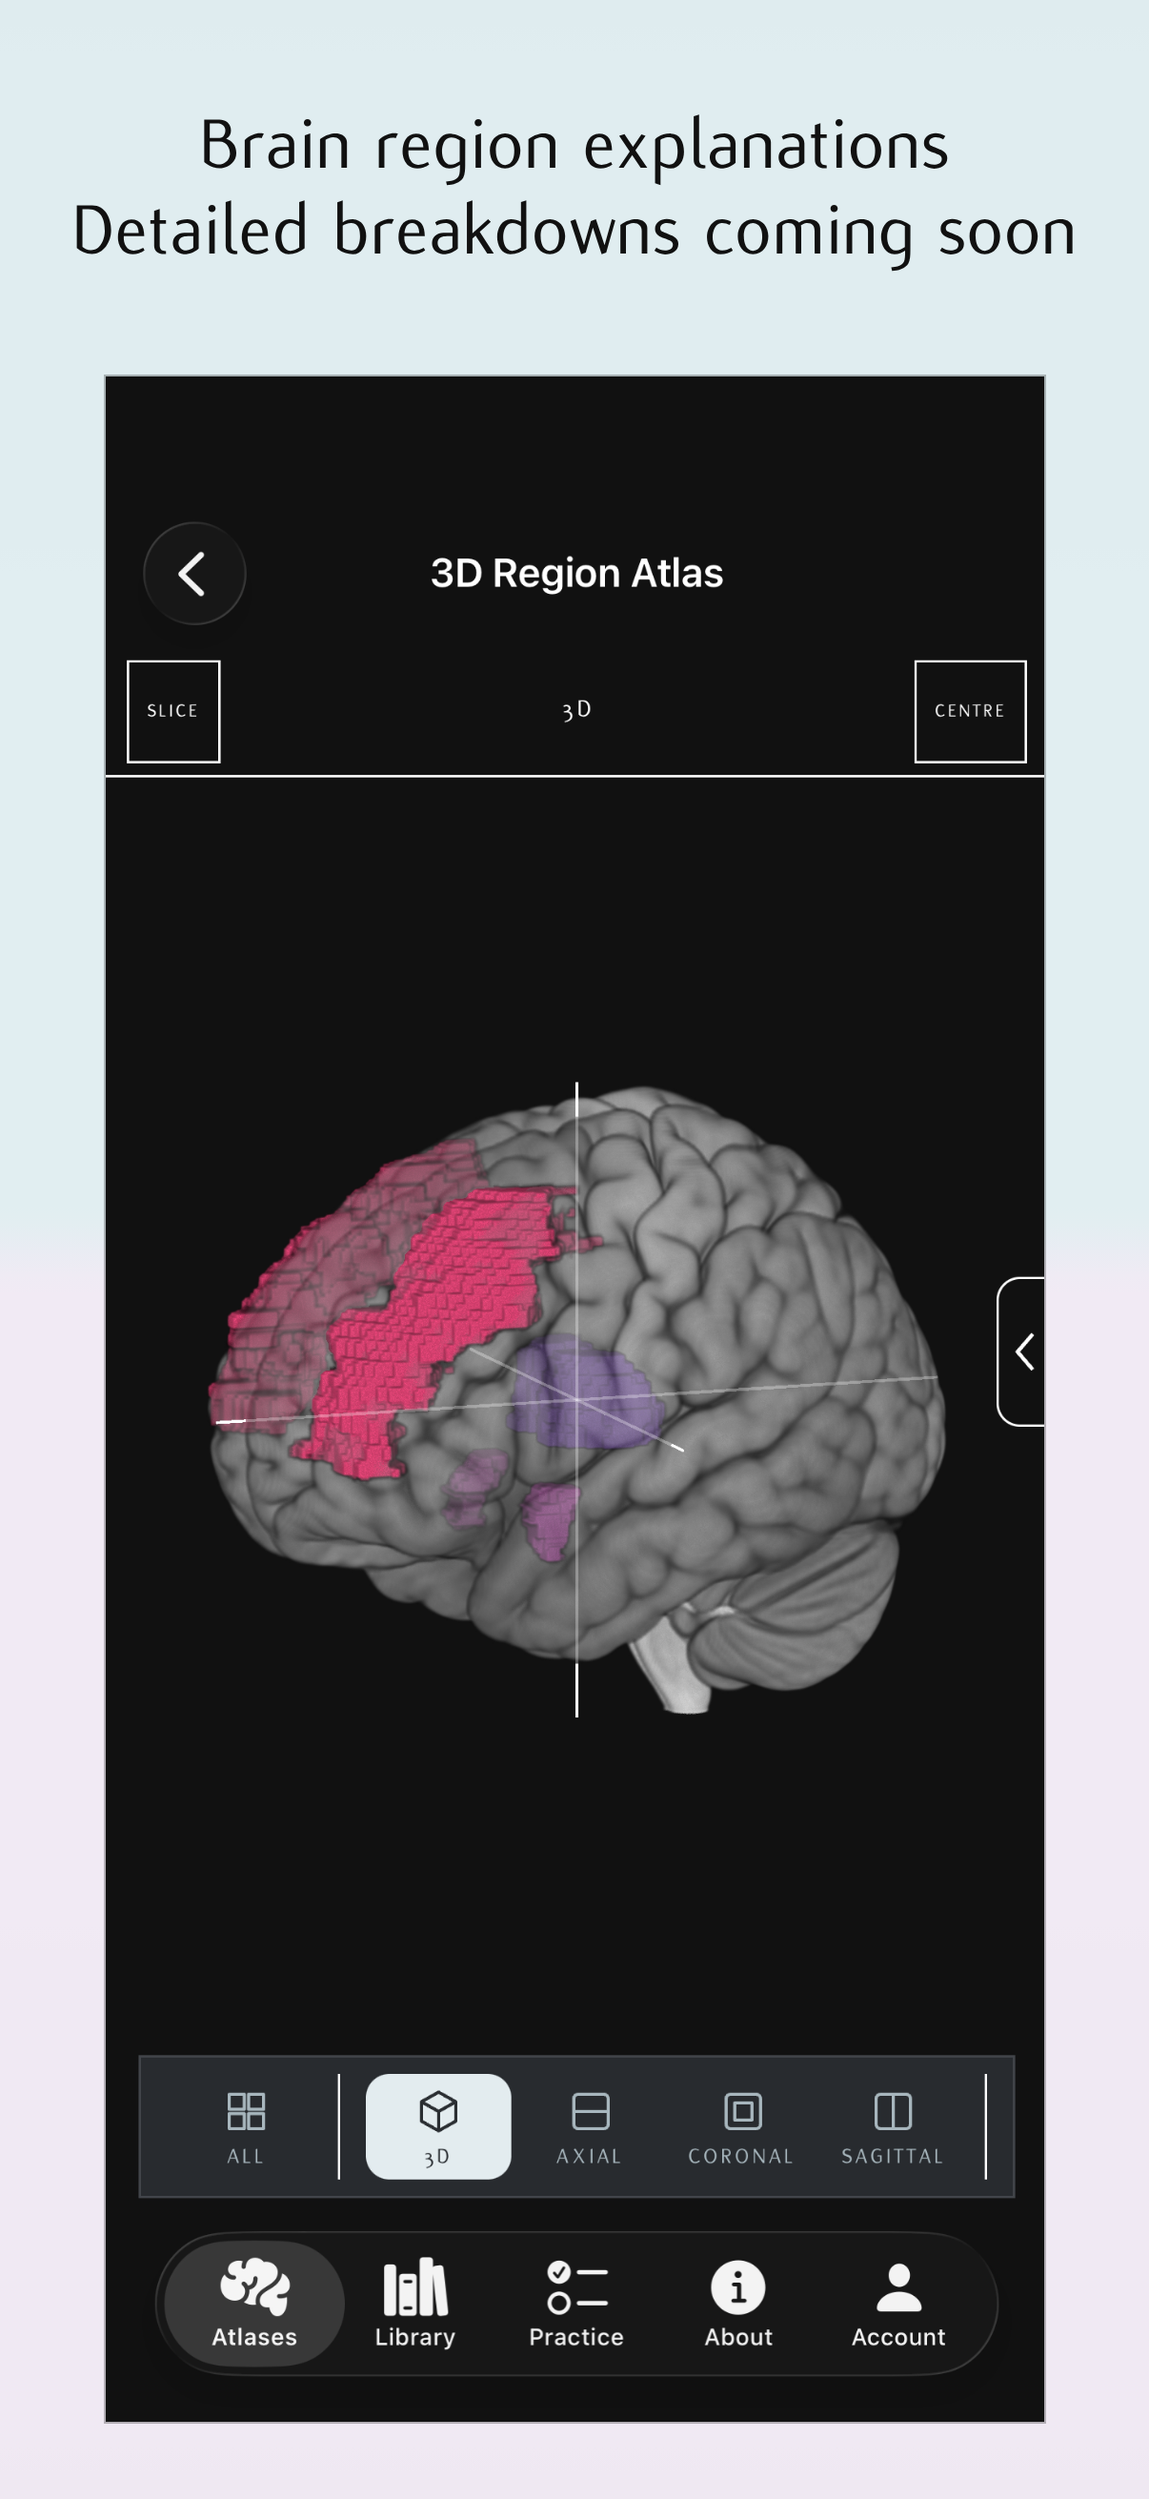
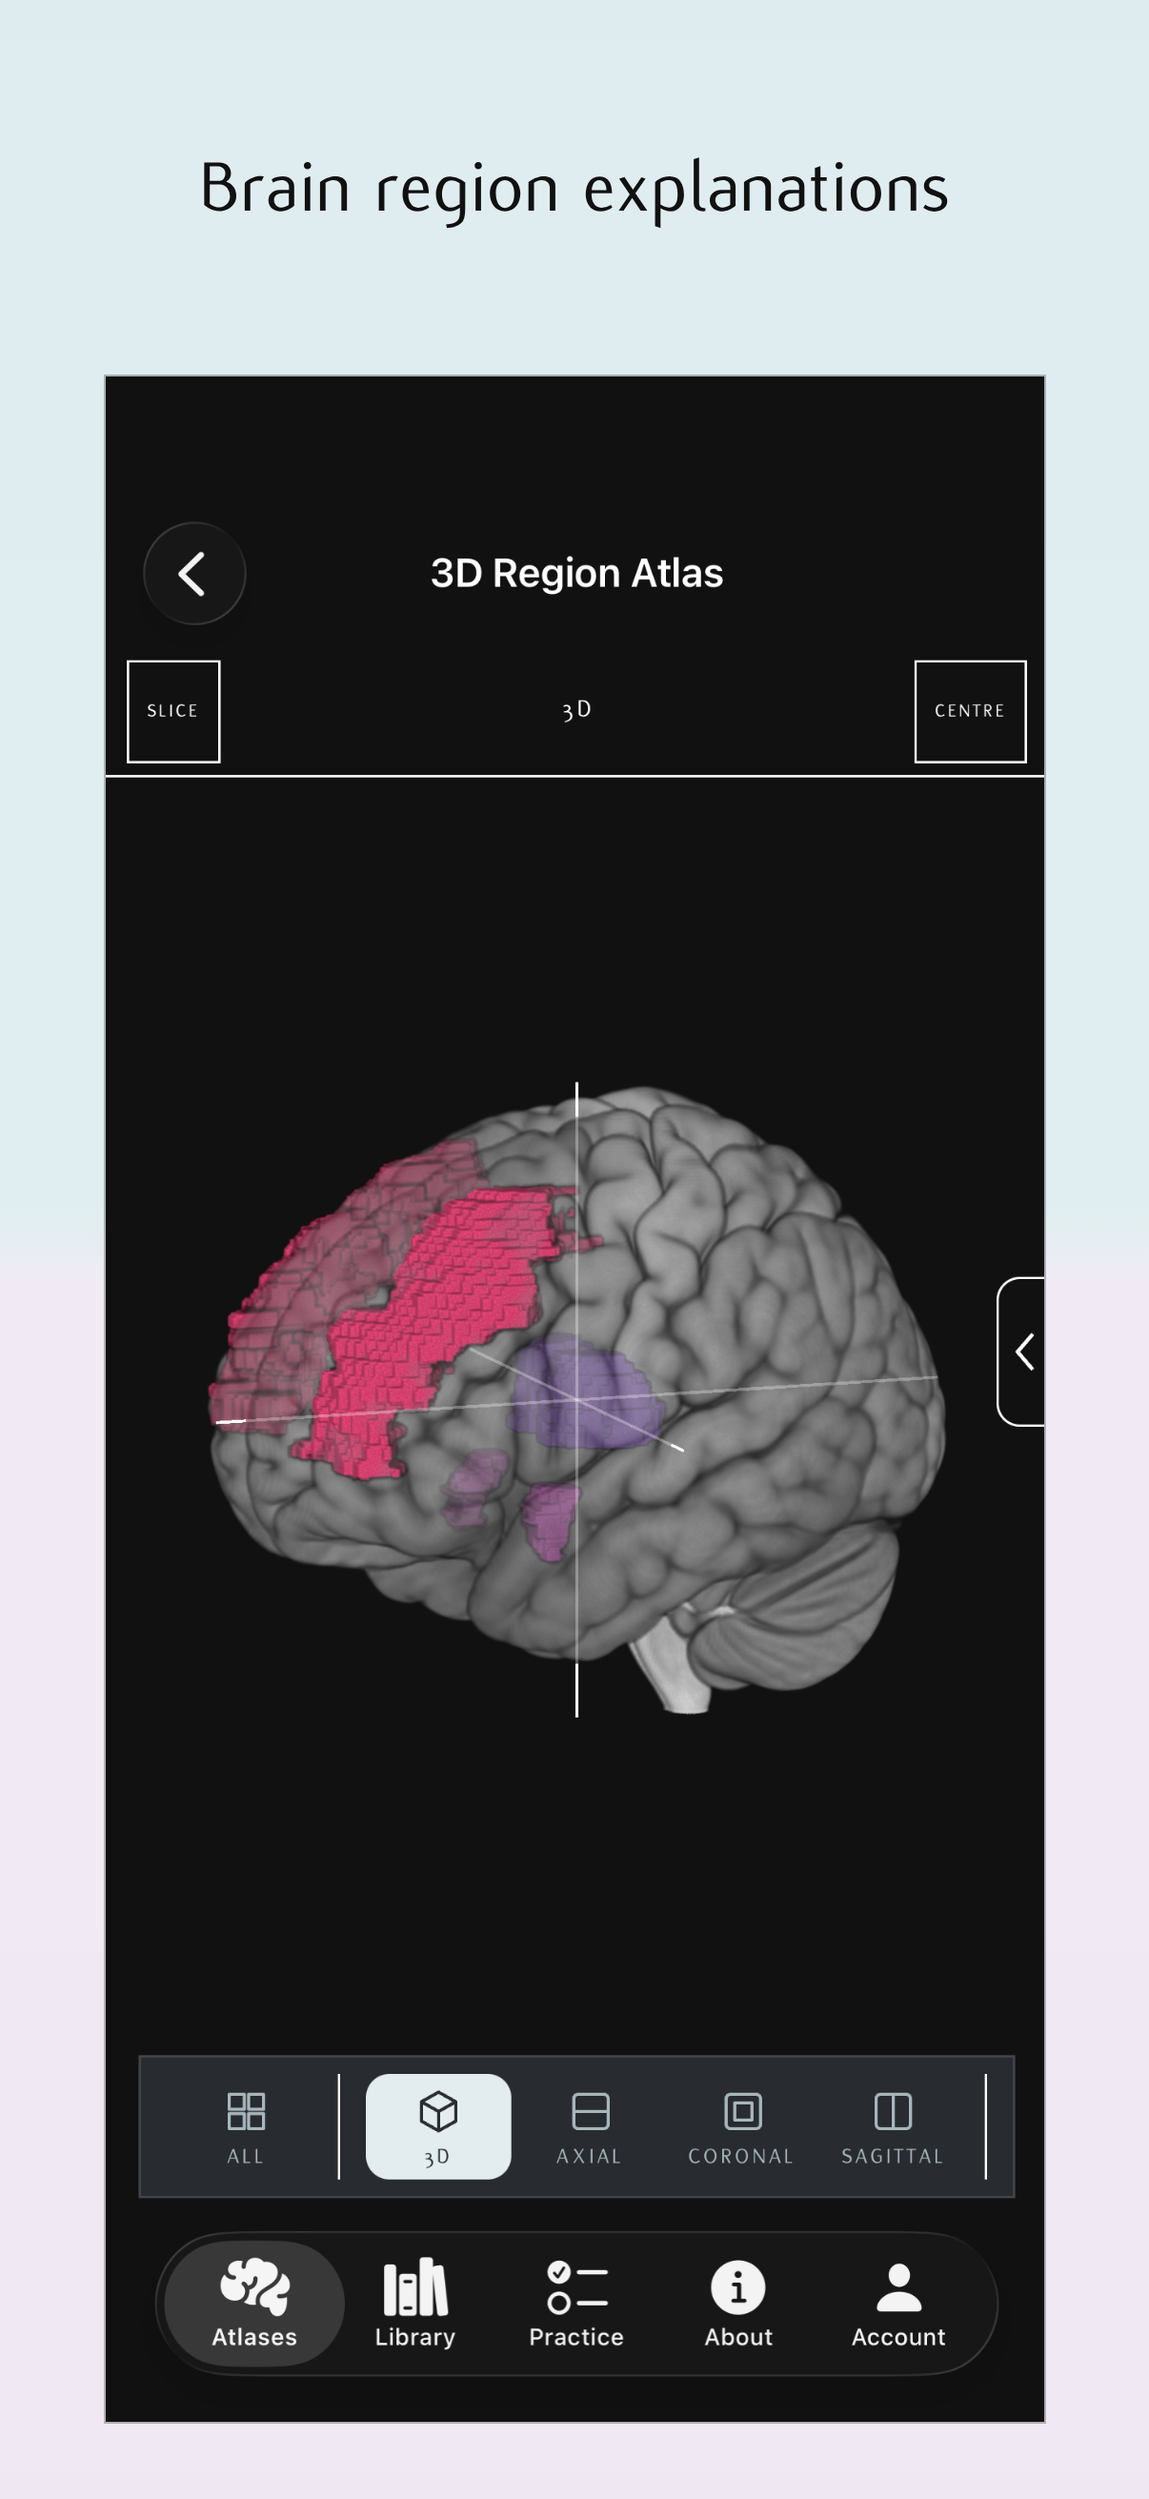
Make the region images' statement Brain region explanations alone and write the 1.1 listing text
At the owner's word the two App Store images of the atlas's region explanations carry Brain region explanations alone, without the second line Detailed breakdowns coming soon, on the iPad and on both iPhone sizes; the remake script holds the statement. The listing notes now hold the 1.1 version's three texts within Apple's limits: What's New brought up to date, a new promotional line, and a description that adds the AI Connector, words the account line for Apple and corrects 1.0's line on the developer's postgraduate certificate, which was finished.

Changed region(s): [[0.1534, 0.0309, 0.8284, 0.1236], [0.8284, 0.0927, 0.9204, 0.1236], [0.0614, 0.0618, 0.1227, 0.1236]]

diff --git a/app/scripts/remake-store-images.js b/app/scripts/remake-store-images.js
@@ -127,7 +127,7 @@ const SHOTS = [
   { name: 'ipad-01', dev: 'ipad', theme: 'dark', url: 'regions.html#sel=' + enc(SEL_PAD), ready: atlasReady, setup: caudate,
     top: 'ipad-top-dark-atlases', out: '02-atlas.png', statement: 'Human Brain Anatomy: Interactive 3D Brain Atlas' },
   { name: 'ipad-02', dev: 'ipad', theme: 'dark', url: 'regions.html#sel=' + enc(SEL_PAD), ready: atlasReady, setup: click('.panelbar [data-pop="popNotes"]', 1800),
-    top: 'ipad-top-dark-atlases', out: '02-atlas-what-they-do.png', statement: 'Brain region explanations|Detailed breakdowns coming soon' },
+    top: 'ipad-top-dark-atlases', out: '02-atlas-what-they-do.png', statement: 'Brain region explanations' },
   { name: 'ipad-03', dev: 'ipad', theme: 'dark', url: 'regions.html#sel=' + enc(SEL_PAD), ready: atlasReady, setup: chartD2,
     top: 'ipad-top-dark-atlases', out: '02-atlas-receptor-graph.png', statement: 'Receptor Density Data by Brain Region' },
   { name: 'ipad-04', dev: 'ipad', theme: 'dark', url: 'regions.html#sel=' + enc(SEL_PAD), ready: atlasReady, setup: figsD2,
@@ -145,7 +145,7 @@ const SHOTS = [
   { name: 'iphone-01', dev: 'iphone', theme: 'dark', url: 'regions.html#sel=' + enc(SEL_PH), ready: atlasReady,
     top: 'iphone-top-dark-3d-region-atlas', bottom: 'iphone-bottom-dark-atlases', out: '02-atlas.png', statement: 'Human Brain Anatomy:|Interactive 3D Brain Atlas' },
   { name: 'iphone-02', dev: 'iphone', theme: 'dark', url: 'regions.html#sel=' + enc(SEL_PH), ready: atlasReady, setup: click('.panelbar [data-view="render"]', 2500),
-    top: 'iphone-top-dark-3d-region-atlas', bottom: 'iphone-bottom-dark-atlases', out: '02-atlas-3d.png', statement: 'Brain region explanations|Detailed breakdowns coming soon' },
+    top: 'iphone-top-dark-3d-region-atlas', bottom: 'iphone-bottom-dark-atlases', out: '02-atlas-3d.png', statement: 'Brain region explanations' },
   { name: 'iphone-03', dev: 'iphone', theme: 'dark', url: 'regions.html#sel=' + enc(SEL_PH), ready: atlasReady, setup: chartD2,
     top: 'iphone-top-dark-3d-region-atlas', bottom: 'iphone-bottom-dark-atlases', out: '02-atlas-receptor-graph.png', statement: 'Receptor Density|Data by Brain Region' },
   { name: 'iphone-04', dev: 'iphone', theme: 'dark', url: 'regions.html#sel=' + enc(SEL_PH), ready: atlasReady, setup: figsD2,

diff --git a/app/store/LISTING.md b/app/store/LISTING.md
@@ -212,36 +212,93 @@ ten for the iPad and ten for each iPhone size.
 
 Check the build number on the 1.0 page first. If 1.0 went out as build 14
 rather than 15, the second block is new to App Store users as well and goes
-above the first. 4,000 characters allowed; both together are well under.
+at the end of the first. 4,000 characters allowed; both together come to
+3,180.
+
+**What's New in This Version** (2,812/4000)
 
 ```
-• A new icon: the brain wired with circuit traces, on a white tile or, from a switch under Account, a black one.
-• The receptor density window is tabbed: the graph on show with nothing to scroll, the table of every receptor against every region, the receptor's own drawings, the receptor types and the sources each on a tab of their own.
-• Brodmann areas are added the way the regions are, from one searchable dropdown, by number, name or what they do.
-• Turn the phone sideways in the 3D Region Atlas and the views take the whole height: the bar moves to the right edge and the four views stand in one row.
-• The Hallucinations study is a screen like the atlas: the scans fill it, the brain state and the regions are a box in the corner, and the paper, the reading, the circuit, the figures, the imaging, the mechanism and the limits each open from a button of their own.
-• Terms of use, a page on deleting your account, and a Delete your account row under Account. Deleting an account signed in with Apple revokes the Sign in with Apple authorisation as well.
-• A tab bar. The atlases, the library, practice, about and your account each have a tab that opens on a page of its own, and whatever you open stays in its tab when you switch away and back. Light or dark is chosen under Account.
-• Microanatomy: a neuron drawn part by part, with twenty structures to click and a quiz to learn them, seventeen neurotransmitters drawn the way chemists draw them, and a hundred and fifty receptors, channels and transporters, each with the drugs that act on it.
-• Molecular: the dopamine and serotonin receptors themselves in 3D, built from thirty-nine experimental structures. Watch the neurotransmitter dock and switch the receptor on, see where antipsychotics, triptans, LSD and psilocin sit in the same pocket, and compare the subtypes.
-• Receptor densities now come from published PET and autoradiography, with a source behind every number. Pick a region to see its receptors ranked against the rest of the brain, or pick a receptor to see where it is densest and light those regions up on the scan.
-• The Brodmann Area Atlas: the classic map of both faces of the cortex on one screen, with what each area does beside it. The areas light up on the scan in the 3D Region Atlas too, searchable by number, name or what they do.
+• A tab bar: Atlases, Library, Practice, About and Account, each a page of its own that keeps its place when you switch away and back. Light or dark is chosen under Account.
+• AI Connector: ask the atlas from Claude, ChatGPT, Kimi or any assistant that supports the Model Context Protocol. Each answer links to the view it describes, and the About tab shows how to connect.
+• Every atlas fills the screen like an anatomy app: the views take the room, the tools run along a bar at the foot, and the regions sit in a drawer you can hide. Each atlas remembers where you left it, cuts and all.
+• Microanatomy: a neuron drawn part by part, with twenty structures to tap and a quiz to learn them, seventeen neurotransmitters drawn the way chemists draw them, and a hundred and fifty receptors, channels and transporters, each with the drugs that act on it.
+• Molecular: the dopamine and serotonin receptors themselves in 3D, built from thirty-nine experimental structures. Watch the neurotransmitter dock and switch the receptor on, see where antipsychotics, triptans, LSD and psilocin sit in the same pocket, and compare the subtypes. The binding tour reads at two levels, Simple and Detailed.
+• The Brodmann Area Atlas: both faces of the cortex on one screen, with the brain in 3D and what each area does beside it. The areas light up on the scan in the 3D Region Atlas too, searchable by number, name or what they do.
+• Receptor densities now come from published PET and autoradiography, with a source behind every number, in a tabbed window: the graph, the table of every receptor against every region, the receptor's own drawings, the receptor types and the sources.
+• Tractography fills the screen and can be sliced like the atlas, and the Network Atlas shows its ring of connections beside the scans.
+• The slice tool marks the centre of each slider, and Reset slice puts every cut back.
+• Turn the phone sideways in the 3D Region Atlas and the views take the whole height.
+• The Hallucinations study is a screen like the atlas, with the paper, the reading, the circuit, the imaging and the limits each a button away.
 • The Digital Textbook is now OpenStax's Introduction to Behavioral Neuroscience in full, nineteen chapters, with its citations opening where they stand.
-• The side view opens on the brain itself rather than the gap between its halves, and picking a region brings every view to it.
-• A highlighted region lights up on the receptor chart in its own colour.
-• Your account has a page of its own: everything it holds, a copy to download, and deletion. A new account can ask for feature announcements by email, and there is a new contact address: fkarim@visualneuroscience.ai.
-• Change your password from the app: a row under Account opens the account page on it.
+• A new icon: the brain wired with circuit traces, on a white tile or, from a switch under Account, a black one.
+• Your account has a page of its own: everything it holds, a copy to download, a new password and deletion. Deleting an account signed in with Apple revokes Sign in with Apple as well. A new account can ask for feature announcements by email.
+• Terms of use and a page on deleting your account, both under Account, and a message from the developer under About.
+• The app now tells you when a newer version is on the App Store.
 ```
 
 Only if 1.0 went out as build 14:
 
 ```
-• Export the brain in 3D. Every 3D view now saves as a model file: glTF (.glb), USDZ for Apple Quick Look, OBJ, STL for printing, PLY, VRML and X3D. Open a USDZ from Files to see the brain in your room.
+• Export the brain in 3D. Every 3D view saves as a model file: glTF (.glb), USDZ for Apple Quick Look, OBJ, STL for printing, PLY, VRML and X3D. Open a USDZ from Files to see the brain in your room.
 • Saved models. Name a 3D Region Atlas view, with its regions, colours, camera and cuts, and open it again later. Signed in, models follow your account to every device.
-• An About page says who made the app and why, and the Brodmann map is now a line drawing, credited to IFEN, whose diagram it is adapted from.
 ```
 
-The description on the version page is 1.0's. Its WHAT IS INSIDE list predates Microanatomy and Molecular; the Play listing in `PLAY-STORE.md` carries the current list with an Apple-worded account line (Sign in with Apple or email), so paste its bullets into the App Store description with 1.1.
+**Promotional Text** (162/170), which can be changed at any time
+without a new version:
+
+```
+New in 1.1: ask the atlas from your AI assistant, explore a neuron and its receptors in 3D, and see the Brodmann areas on a brain you can turn. Free, with no ads.
+```
+
+**Description** (3,952/4000). 1.0's description predated
+Microanatomy, Molecular and the AI Connector and said its developer had not
+finished the postgraduate certificate, which was finished; this one follows
+the Play listing's list, adds the AI Connector, words the account line for
+Apple (Sign in with Apple, Google or email) and takes its developer line
+from the owner's letter on the About page.
+
+```
+Visual Neuroscience is an interactive 3D atlas of the human brain, built for anyone learning neuroanatomy without a lab or a licence. Turn a real MNI152 brain, tap through its regions, search Brodmann areas by what they do, follow the white-matter tracts, go down to the cell and the molecule, and see published studies drawn on the scan itself. Everything ships inside the app and renders on your device, so it works on a train, at the back of a lecture theatre, or in aeroplane mode.
+
+WHAT IS INSIDE
+
+• 3D Region Atlas: the MNI152 template with the AAL-116 parcellation. Pick any region, highlight it in three planes and in 3D, and read what it does.
+• Brodmann Area Atlas: the classic cortical map, both faces of the hemisphere on one screen beside the brain in 3D. Tap any area to read what it does.
+• Tractography: the HCP1065 whole-brain tractogram. Rotate it, slice it, follow the bundles.
+• Receptor density: where the major neurotransmitter receptors sit, from published PET and autoradiography, with a source behind every number.
+• Network Atlas: the brain's large-scale networks in six states, from flow to meditation.
+• Microanatomy: a neuron drawn part by part with a quiz to learn it, the neurotransmitters as chemists draw them, and a hundred and fifty receptors, channels and transporters with the drugs that act on them.
+• Molecular: the dopamine and serotonin receptors in 3D, from experimental structures. Watch the neurotransmitter dock, see where antipsychotics, triptans, LSD and psilocin sit in the same pocket, and compare the subtypes.
+• Visualising Studies: published papers drawn onto the scan, beginning with a study of auditory hallucinations in schizophrenia.
+• Digital Textbook: OpenStax's Introduction to Behavioral Neuroscience in full, nineteen chapters, with every figure and reference.
+• Practice: adaptive questions that score as you go, lean toward what you keep getting wrong, and explain every answer. The first bank follows the KCL MSc Neuroscience syllabus.
+
+AI CONNECTOR
+
+Ask the atlas from Claude, ChatGPT, Kimi or any assistant that supports the Model Context Protocol: what a region does, where a receptor is densest, how the brain changes in a state. Each answer links to the view it describes; the About tab shows how to connect.
+
+MADE FOR TOUCH, AND FOR A DESK
+
+Pinch to zoom on every scan and diagram, two fingers to pan, one to rotate; on a Mac the same works with a trackpad. Save a view as a picture, or the brain as a 3D model to open in your room.
+
+AN ACCOUNT, ONLY IF YOU WANT ONE
+
+Sign in with Apple, Google or email to keep your practice progress and saved models across iPhone, iPad, Mac and the web. Nothing requires an account, nothing is sold, and there is no advertising and no tracking. Delete the account from inside the app at any time.
+
+BUILT ON OPEN DATA
+
+The MNI152 template, the AAL parcellation, the MRIcron Brodmann atlas and the HCP1065 tractogram, rendered with NiiVue; receptor structures from the Protein Data Bank. Each page says where its data came from and where the evidence stops. Brodmann Areas diagram adapted with permission from IFEN – Institute for EEG-Neurofeedback / Neurofeedback Academy.
+
+WHO IT IS FOR
+
+Students revising between lectures. Lecturers who want a live brain on the screen instead of a slide. And anyone who wanted to study this and was priced out.
+
+Built by one developer, with the help of AI and a PG Cert in Applied Neuroscience from King's College London Online, so that the next generation of neuroscientists and psychologists has a map of the brain that is easy to use and understand. The website and the app share the same code and the same author. If something is missing for your course, write, and it usually ships within the week.
+
+Not a medical device and not a diagnostic tool. An educational reference that summarises published work and draws published atlases, with its sources on every page.
+
+Also on the web at visualneuroscience.ai
+```
 
 ## Submitting 1.1, in order
 

diff --git a/docs/RELEASES.md b/docs/RELEASES.md
@@ -11,8 +11,13 @@ text below. Both can also be run from a clone on a machine that can push.
 
 Versions before v8.6 were released without a ledger and are not recorded.
 
+## v12.18 — 24 October 2026 — Brain region explanations, and the 1.1 listing
+Commit · Make the region images' statement Brain region explanations alone and write the 1.1 listing text
+
+The two App Store images of the atlas's region explanations now carry the owner's statement alone, Brain region explanations, on the iPad and on both iPhone sizes. The listing notes hold the text for version 1.1: the What's New list brought up to date with the AI Connector, the full-screen atlases and the update popup, a new promotional line, and a description that adds the AI Connector and the cell and molecule pages to what is inside.
+
 ## v12.17 — 24 October 2026 — Word of an update, and the developer's page retitled
-Commit · Tell iOS users when a newer version is on the App Store and title the developer's page Message from the Developer
+Commit `adb21f7` · Tell iOS users when a newer version is on the App Store and title the developer's page Message from the Developer
 
 The iPhone, iPad and Mac app now says when a newer version is on the App Store: a popup offers Update, which opens the app's page in the App Store, or Not Now, and it asks at most once a day, never for a version the device's system is too old to run. The app's next build carries it, so it first asks once the version after that is out. The page with the developer's letter is titled Message from the Developer, on the website and in the app's bar, and the privacy page describes the check: the app asks Apple's App Store which version is the newest, and the request carries nothing about you.
 
